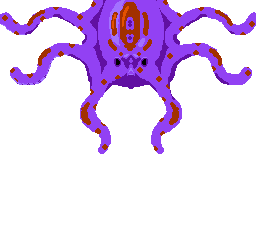
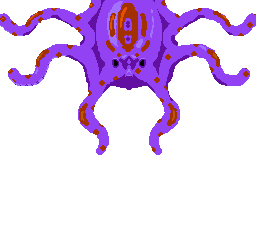
Octopus spawns when reaching 100% - still no interaction

Changed region(s): [[0.0, 0.0, 1.0, 0.6417], [0.75, 0.0292, 1.0, 0.175], [0.9375, 0.0583, 0.9688, 0.0875]]

diff --git a/js/main.js b/js/main.js
@@ -7,6 +7,7 @@ var debuggingDisplay = true;
 
 var p1 = new playerClass();
 var readyToReset = false; // to avoid calling reset() mid list iterations
+var octopusBoss = new octopusClass();
 
 var drawMoveList = []; // list of lists - note, drawn in this order, so should be filled closest to ground up towards sky last
 var animateEachLists = []; // subset of draw/move lists for which each object has its own separate animation frame to update
@@ -16,6 +17,8 @@ const GAME_STATE_CONTROLS = 1;
 var gameState = GAME_STATE_PLAY;
 
 var gameMusic = {};
+
+var bossFight = false;
 
 window.onload = function() { // discord repo check
 	setupCanvas();
@@ -165,6 +168,10 @@ function update()
 			{
 				drawList(drawMoveList[i]);
 			}
+
+			if(bossFight){
+				octopusBoss.draw();
+			}
 			p1.draw();
 			break;
 	}
@@ -200,6 +207,9 @@ function gameDebugSharpText() {
 	if(percProgress>100) 
 	{
 		percProgress = 100;
+		bossFight = true;
+	}else{
+		bossFight = false;
 	}
 	scaledCtx.fillText("Level progress: " + percProgress+"%",20,debugLineY+=debugLineSkip);
 }

diff --git a/js/imageloading.js b/js/imageloading.js
@@ -10,6 +10,7 @@ function loadImages() {
         {imgName: "bomb sight", theFile: "bombsight.png"},
         {imgName: "splode", theFile: "splode.png"},
         {imgName: "bug", theFile: "enemybug.png"},
+        {imgName: "octopus", theFile: "GiantOctopus.png"},
         {imgName: "powerup", theFile: "powerup.png"},
         {imgName: "turret", theFile: "enemyturret.png"},
         {imgName: "defense_ring_unit", theFile: "defense_ring_unit.png"},

diff --git a/js/octopus.js b/js/octopus.js
@@ -1,0 +1,21 @@
+const OCTOPUS_FRAMES = 0;
+const OCTOPUS_IMAGE_NAME = "octopus";
+
+function octopusClass() {
+    this.frame=0;
+
+    this.reset = function() {
+    }
+
+    this.draw = function(){
+        drawAnimFrame(OCTOPUS_IMAGE_NAME, 128, 120, this.frame, 256, 240);
+    }
+
+    this.animate = function() {
+		this.frame++;
+		if(this.frame>=OCTOPUS_FRAMES) {
+			this.frame = 0;
+		}
+	}
+
+}

diff --git a/index.html b/index.html
@@ -30,6 +30,7 @@
     <script src="js/defense_ring.js"></script>
     <script src="js/powerup.js"></script>
     <script src="js/player.js"></script>
+    <script src="js/octopus.js"></script>
     <script src="js/enemysurface.js"></script>
     <script src="js/enemy.js"></script>
     <script src="js/main.js"></script>
